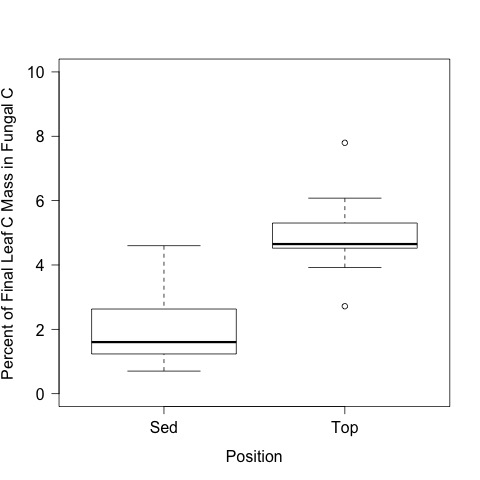
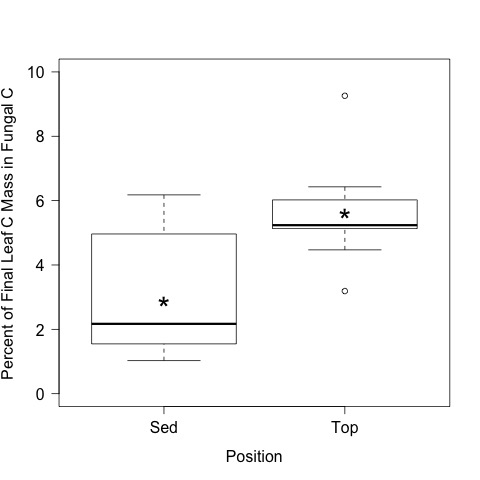
recalculated the fungal C percent and the change in C loss in the ergosterall analysis using AFDM

Changed region(s): [[0.1875, 0.4688, 0.5, 0.7812], [0.5625, 0.375, 0.875, 0.5625], [0.3125, 0.4062, 0.3438, 0.4375]]

diff --git a/lab_notebook/analysis/Ergosterol_analysis.md b/lab_notebook/analysis/Ergosterol_analysis.md
@@ -8,6 +8,7 @@
  * Added summary stats for ergosterol mass per leaf
  * 1 Nov 2017 - KF - calculated the degree that fungal C mass was from converted leaf C
  * 25 Jan 2018 - KF - tested differences in the percent fungal carbon in the leaves
+ * 20 Jan 2018 - KF - recalculated the carbon mass, and percent of fungal C to leaf C based on AFDM rather than leaf dry mass - this better matches with the mass loss analysis
  
 ### Description
 
@@ -185,23 +186,20 @@ $Top
 
 #### Leaf Disc C Mass Final
  
-To estimate the C mass of a single leaf we need to divide the leaf mass by the number of leaves in the mass estimate sample. 
+The estimated AFDM of a single leaf at the end of the incubataion is "AFDM" in the "erg" data frame.     
 
-    disc_mass_final <- (erg$LeafMass / erg$LeafNum) * 1000 #converted to mg
+    tapply(erg$AFDM * 1000, erg$Position, summary)
+    tapply(erg$AFDM * 1000, erg$Position, sd)
 
-    tapply(disc_mass_final, erg$Position, summary)
-    tapply(disc_mass_final, erg$Position, sd)
-    
 ~~~~
 # Estimated dry mass of a single leaf disc after incubation (mg)
  
 $Sed
-   Min. 1st Qu.  Median    Mean 3rd Qu.    Max.  SD
-  2.920   3.010   3.250   3.355   3.625   4.080  0.4055518 
-
+   Min. 1st Qu.  Median    Mean 3rd Qu.    Max.  SD 
+  1.940   2.155   2.490   2.440   2.515   3.480  0.4320494 
 $Top
    Min. 1st Qu.  Median    Mean 3rd Qu.    Max.  SD
-  2.200   2.610   2.835   3.031   3.518   4.020  0.6148315 
+  1.920   2.315   2.580   2.677   3.125   3.540  0.5362904 
 
 ~~~~
  
@@ -213,9 +211,9 @@ To complete this calculation, I need a treatment level variable for the cn data.
 
 I now calculate mass of C for each treatment level:
 
-    disc_C_mass_final_TOP <- disc_mass_final[erg$Position == "Top"] * (cn$percC[cn.position == "top"]) / 100 # convert to proportion
-    disc_C_mass_final_SED <- disc_mass_final[erg$Position == "Sed"] * (cn$percC[cn.position == "sed"]) / 100
-    disc_C_mass_final <- c(disc_C_mass_final_TOP, disc_C_mass_final_SED)
+    disc_C_mass_final_TOP <- erg$AFDM[erg$Position == "Top"] * (cn$percC[cn.position == "top"]) / 100 # convert to proportion
+    disc_C_mass_final_SED <- erg$AFDM[erg$Position == "Sed"] * (cn$percC[cn.position == "sed"]) / 100
+    disc_C_mass_final <- c(disc_C_mass_final_TOP, disc_C_mass_final_SED) * 1000 # convert to mg
 
     tapply(disc_C_mass_final, erg$Position, summary) 
     tapply(disc_C_mass_final, erg$Position, sd)
@@ -224,12 +222,12 @@ I now calculate mass of C for each treatment level:
 # Mass of C in each leaf disc after incubation (mg)
  
 $Sed
-   Min. 1st Qu.  Median    Mean 3rd Qu.    Max.  SD
- 0.9126  1.1680  1.2380  1.2380  1.2970  1.5400  0.1785781 
+   Min. 1st Qu.  Median    Mean 3rd Qu.    Max. SD 
+ 0.6588  0.7806  0.9189  0.8985  0.9689  1.2340 0.1598875 
 
 $Top
-   Min. 1st Qu.  Median    Mean 3rd Qu.    Max.  SD
-  1.018   1.173   1.282   1.362   1.596   1.768  0.2639970 
+   Min. 1st Qu.  Median    Mean 3rd Qu.    Max. SD
+ 0.8886  1.0500  1.1470  1.2030  1.3910  1.5570 0.2301806 
 
 ~~~~
 
@@ -237,9 +235,9 @@ $Top
  
 The C mass of the leaf discs prior to the incbation is estimated by the % C of the leaves before the incubation and the masses of the leaf discs before the incubation.
 
-The initial leaf disc masses are calculated by dividing the total sample dry mass by the number of leaf discs in the sample and then converting to mg
+The initial leaf disc masses are calculated by dividing the total sample ADDM mass by the number of leaf discs in the sample and then converting to mg
 
-    disc_mass_init <- (init_om$dry.mass[init_om$sample == "leaf"] / init_om$leaf.num[init_om$sample == "leaf"]) * 1000 # converted to mg 
+    disc_mass_init <- (init_om$om.mass[init_om$sample == "leaf"] / init_om$leaf.num[init_om$sample == "leaf"]) * 1000 # converted to mg 
 
     disc_C_mass_init <- disc_mass_init * 0.45 # the % C of the leaves prior to incubation = 45%
 
@@ -249,9 +247,8 @@ The initial leaf disc masses are calculated by dividing the total sample dry mas
 ~~~~
 # Estimated carbon mass of a single leaf disc prior to incubation (mg)
  
- Min. 1st Qu.  Median    Mean 3rd Qu.    Max.    SD
-  1.309   1.440   1.471   1.496   1.530   1.688  0.1115964
-
+Min. 1st Qu.  Median    Mean 3rd Qu.    Max.     SD
+  1.283   1.499   1.597   1.594   1.656   1.899  0.1884964
 ~~~~
 
 #### Change in C Mass During Incubation
@@ -266,18 +263,46 @@ The initial leaf disc masses are calculated by dividing the total sample dry mas
 # Change in leaf disc C mass during incubation (mg)
  
 $Sed
-    Min.  1st Qu.   Median     Mean  3rd Qu.     Max.   SD
--0.04411  0.19880  0.25770  0.25730  0.32750  0.58290   0.1785781 
+   Min. 1st Qu.  Median    Mean 3rd Qu.    Max. SD 
+ 0.3595  0.6246  0.6746  0.6950  0.8129  0.9347 1598875 
 
 $Top
-   Min. 1st Qu.  Median    Mean 3rd Qu.    Max.  SD
--0.2725 -0.1010  0.2136  0.1331  0.3224  0.4773  0.2639970 
+   Min. 1st Qu.  Median    Mean 3rd Qu.    Max. SD
+0.03661 0.20300 0.44660 0.39050 0.54370 0.70490 0.2301806 
+
 
 ~~~~
+
+## Test of Change in C mass of a leaf Disc during incbation by position
+
+    t.test(delta_C_mass ~ erg$Position)
+ 
+~~~~
+Welch Two Sample t-test
+
+data:  delta_C_mass by erg$Position
+t = 3.4351, df = 16.045, p-value = 0.003387
+alternative hypothesis: true difference in means is not equal to 0
+95 percent confidence interval:
+ 0.1166032 0.4922788
+sample estimates:
+mean in group Sed mean in group Top 
+         0.694988          0.390547 
+
+~~~~
+
  
     par(las = 1)
     plot(delta_C_mass ~ erg$Position)
+    text(1, mean(delta_C_mass[erg$Position == "Sed"]), "*", cex = 2)
+    text(2, mean(delta_C_mass[erg$Position == "Top"]), "*", cex = 2)
+    dev.copy(jpeg, "./output/plots/delta_c_mass.jpg")
+    dev.off()
 
+
+![Delta C mass in fungal C mass](../output/plots/delta_c_mass.jpg)
+
+Figure: Change in final leaf C mass
 
 #### Percentage of Final Leaf C Mass in the Fungi
 
@@ -292,12 +317,13 @@ The percent of the final leaf C mass that is in fungi:
 # Percent of the final C mass of each leaf disc that is in fungal C
 
 $Sed
-   Min. 1st Qu.  Median    Mean 3rd Qu.    Max.  SD
- 0.7023  1.2470  1.6030  2.1040  2.4920  4.5980  1.415832
+   Min. 1st Qu.  Median    Mean 3rd Qu.    Max. SD
+  1.026   1.609   2.171   2.890   4.331   6.178 1.886135 
 
 $Top
-   Min. 1st Qu.  Median    Mean 3rd Qu.    Max.  SD
-  2.719   4.534   4.650   4.948   5.295   7.796  1.339615 
+   Min. 1st Qu.  Median    Mean 3rd Qu.    Max. SD
+  3.189   5.141   5.237   5.602   5.987   9.258 1.566612 
+
 
 ~~~~
 
@@ -310,18 +336,20 @@ $Top
  Welch Two Sample t-test
 
 data:  perc_fungal_C by erg$Position
-t = -4.613, df = 17.945, p-value = 0.0002176
+t = -3.4985, df = 17.414, p-value = 0.002672
 alternative hypothesis: true difference in means is not equal to 0
 95 percent confidence interval:
- -4.138580 -1.548112
+ -4.345464 -1.079654
 sample estimates:
 mean in group Sed mean in group Top 
-         2.104273          4.947619 
+         2.889725          5.602283 
 
 ~~~~
  
     par(las = 1)
     plot(perc_fungal_C ~ erg$Position, ylim = c(0, 10), ylab = "Percent of Final Leaf C Mass in Fungal C", xlab = "Position")
+    text(1, mean(perc_fungal_C[erg$Position == "Sed"]), "*", cex = 2)
+    text(2, mean(perc_fungal_C[erg$Position == "Top"]), "*", cex = 2)
     dev.copy(jpeg, "./output/plots/percent_fungal_c_mass.jpg")
     dev.off()
 

diff --git a/lab_notebook/analysis/mass_loss_analysis.md b/lab_notebook/analysis/mass_loss_analysis.md
@@ -4,7 +4,8 @@
 
 * file created 29 June 2016 - KF
 
-* Modified: 
+* Modified:
+    * 30 Jan 2018 - KF - summarized the leaf disc mass
 
 ### Description
 
@@ -26,7 +27,7 @@ The initial leaf mass samples consisted of 10 leaves
     mean.init.mass <- mean(sing.init.leaf.mass)
 
 ~~~~
-# mean mass of a single leaf prior to the beginning the exp
+# mean mass of a single leaf prior to the beginning the exp (g)
   
 > mean.init.mass
 [1] 0.003541111
@@ -42,6 +43,26 @@ The initial leaf mass samples consisted of 10 leaves
 Since there were different numbers of leaves in the crucibles `final.AFDM` is the mass of the total leaves in the crucible
 
     final.leaf.AFDM <- final.AFDM / leaf.final$LeafNum
+
+### Summarize final leaf mass
+
+    tapply(final.leaf.AFDM * 1000, leaf.final$Position, summary)
+    tapply(final.leaf.AFDM * 1000, leaf.final$Position, sd)
+
+~~~~
+# Summary of the average mass of a single leaf disc at the end of the exp, by position (mg)
+ 
+$Sed
+   Min. 1st Qu.  Median    Mean 3rd Qu.    Max.  SD
+  1.940   2.155   2.490   2.440   2.515   3.480  0.4320494 
+
+$Top
+   Min. 1st Qu.  Median    Mean 3rd Qu.    Max.  SD
+  1.920   2.315   2.580   2.677   3.125   3.540  0.5362904 
+
+
+~~~~
+
 
 ###  Determine Mass Lost
 
